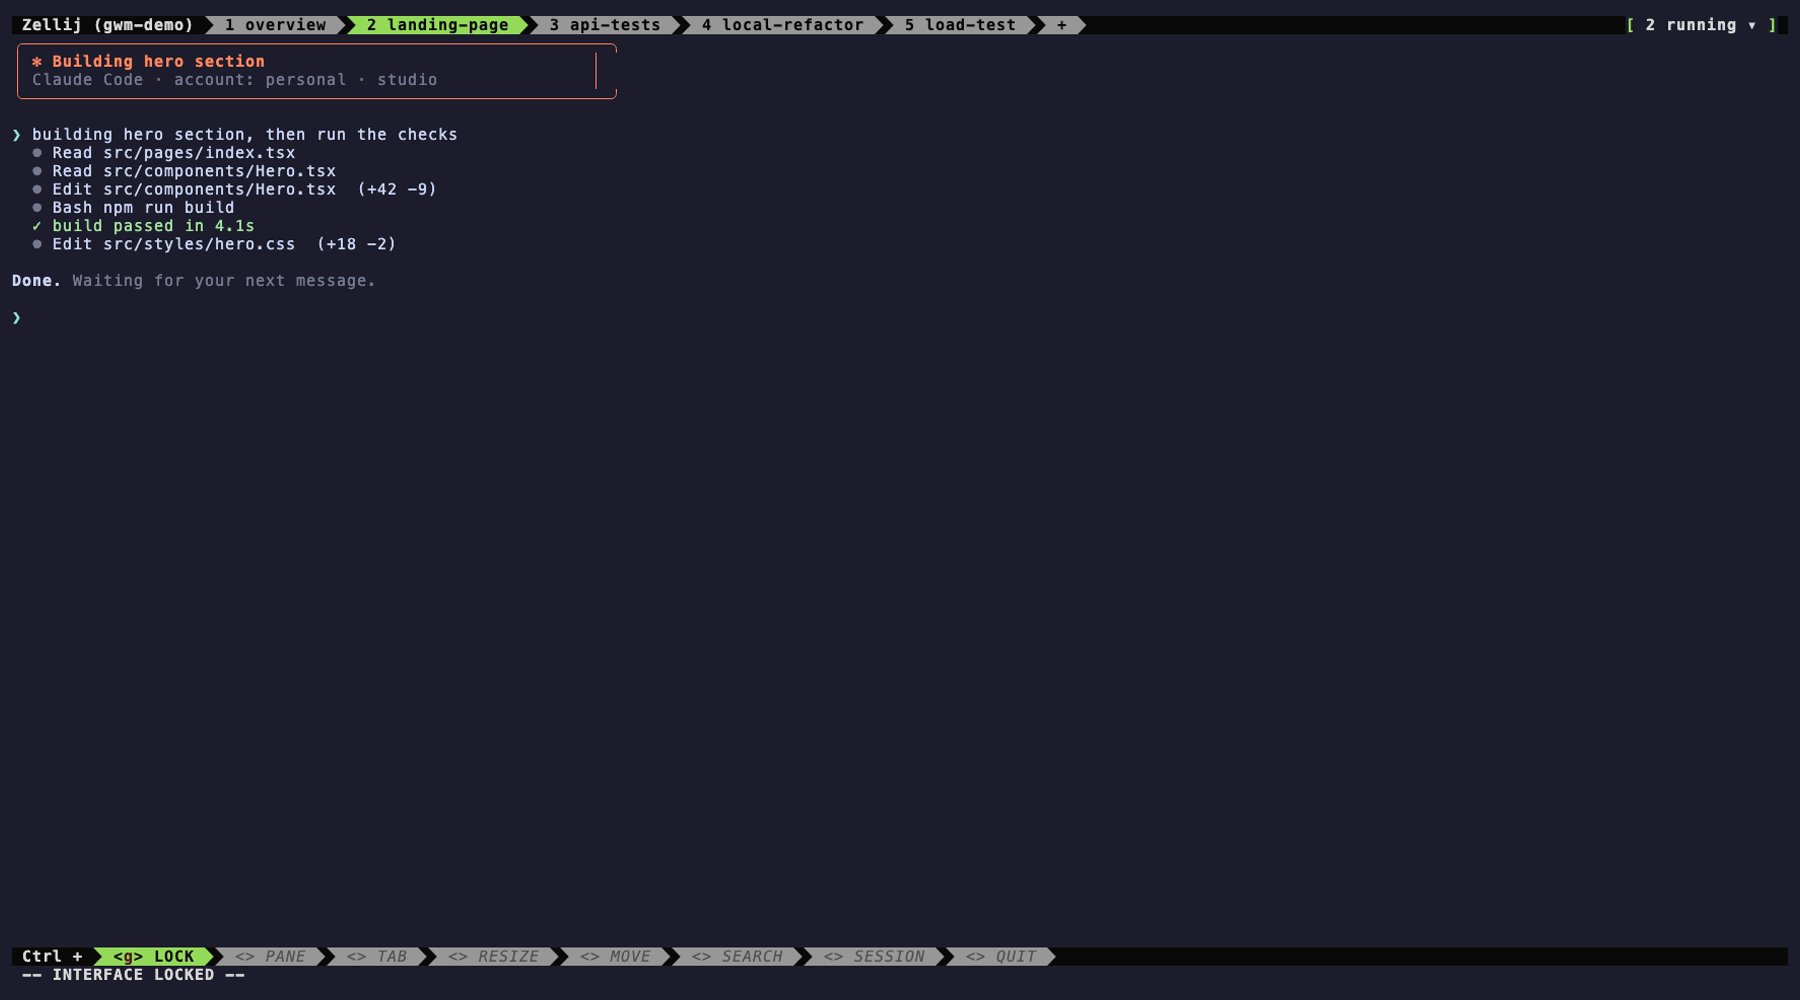
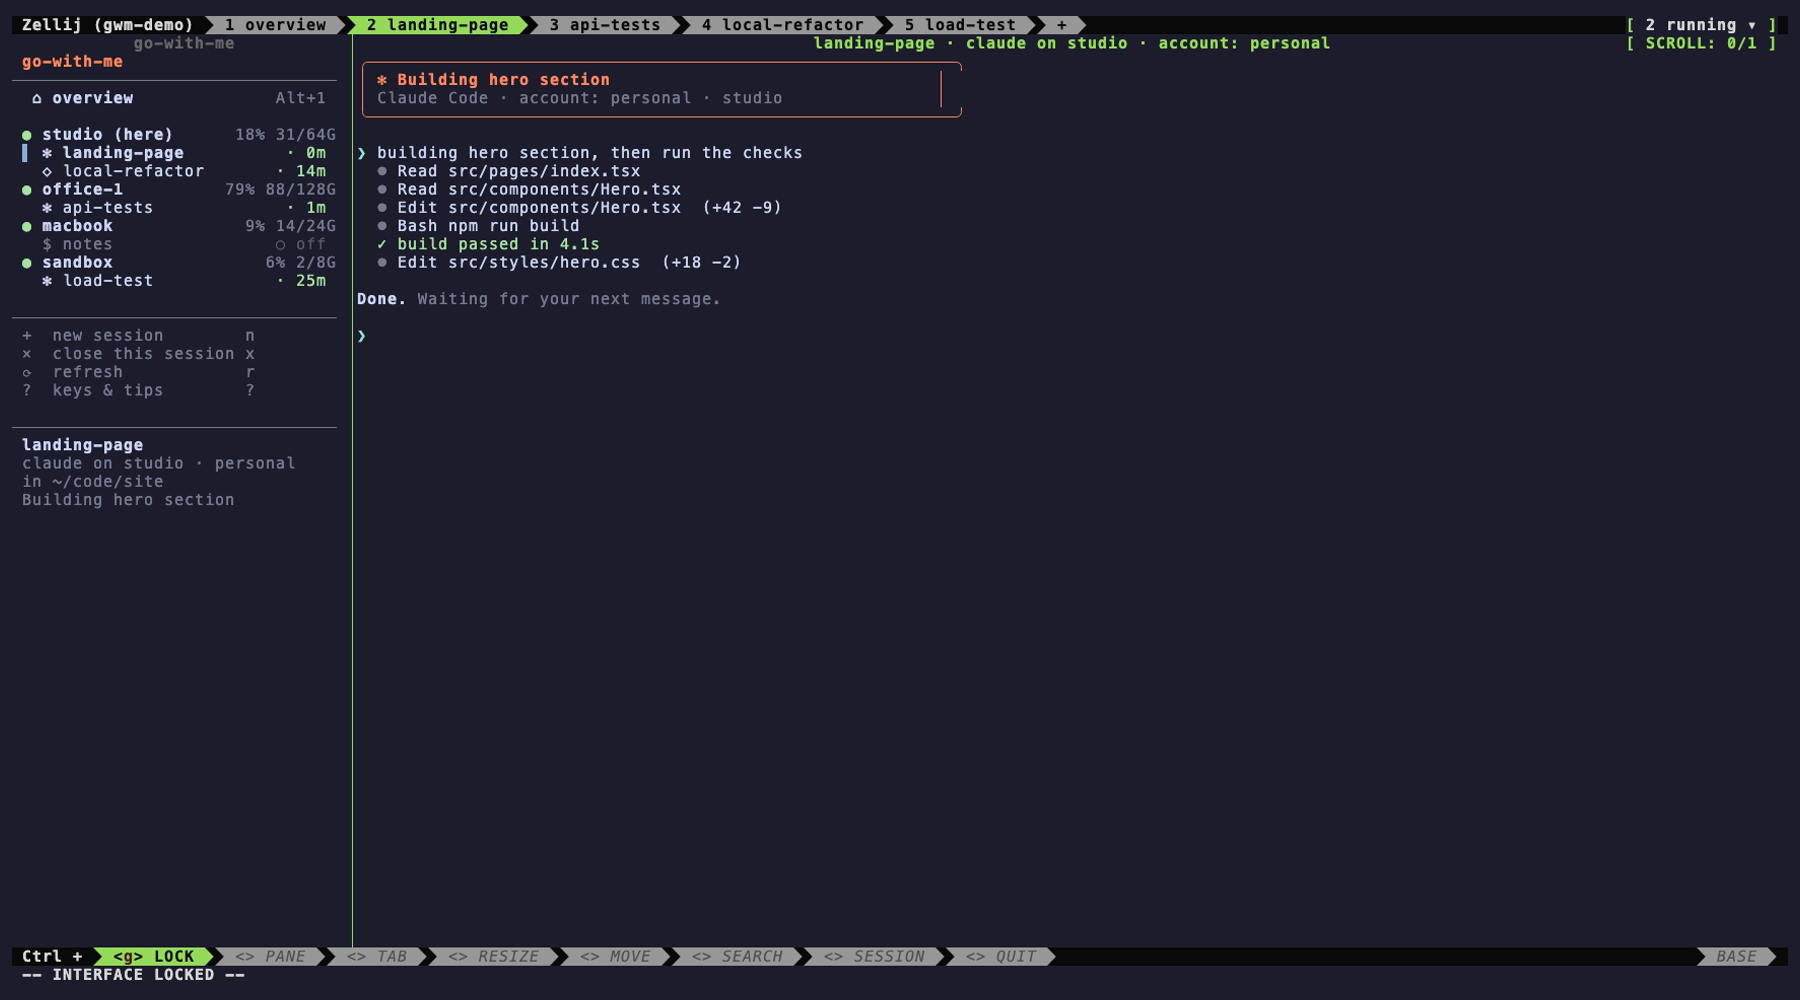
Add sidebar UI, copy-on-select, and Tailscale-aware "used by"
- Every hub tab now has an opencode-style sidebar: machines with live
  CPU/RAM, sessions grouped under each machine with working/idle/off state,
  a marker for the current tab, a details panel, and actions (new, close,
  refresh, help). Click or use arrow keys and Enter; opening a stopped
  session starts it.
- Selecting text with the mouse copies it to the clipboard (pbcopy).
- Board and sidebars share one cached SSH sweep (`gwm _data`).
- "Used by" now detects Tailscale SSH logins and names machines from the
  addresses each one reports, so IPv6 and Tailscale IPs resolve to names.
- README GIF and screenshots re-recorded with the sidebar.

diff --git a/sidebar.py b/sidebar.py
@@ -1,0 +1,289 @@
+#!/usr/bin/env python3
+"""go-with-me sidebar: the left column in every hub tab.
+
+Lists your machines and their sessions with live status. Click (or arrow keys + Enter) to jump to a session;
+opening one that isn't running starts it. n = new session, x = close current session, r = refresh, ? = help.
+Reads state from `gwm _data` (one shared SSH sweep, cached), and drives Zellij with `zellij action`.
+"""
+import curses, json, os, subprocess, sys, threading, time
+
+GWM = sys.argv[1] if len(sys.argv) > 1 else "gwm"
+ENGINE_ICON = {"claude": "✻", "opencode": "◇", "shell": "$"}
+state = {"self": "", "hosts": [], "sessions": [], "probe": {}, "used": {}, "ok": False, "at": 0}
+tabs = {"list": [], "active": None}
+lock = threading.Lock()
+
+
+def run(*args, timeout=30):
+    try:
+        return subprocess.run(args, capture_output=True, text=True, timeout=timeout).stdout
+    except Exception:
+        return ""
+
+
+def load_data():
+    out = run(GWM, "_data", timeout=45)
+    hosts, sessions, used, probe, me = [], [], {}, {}, ""
+    for line in out.splitlines():
+        if line.startswith("#SELF\t"):
+            me = line.split("\t", 1)[1]
+        elif line.startswith("#HOST\t"):
+            p = line.split("\t"); hosts.append({"name": p[1], "target": p[2], "role": p[3] if len(p) > 3 else ""})
+        elif line.startswith("#SESS\t"):
+            p = line.split("\t") + [""] * 6
+            sessions.append({"name": p[1], "host": p[2], "engine": p[3], "account": p[4], "folder": p[5]})
+        elif line.startswith("#USED\t"):
+            p = line.split("\t") + [""]; used[p[1]] = p[2]
+        elif "|" in line:
+            p = line.split("|")
+            h, kind = p[0], p[1] if len(p) > 1 else ""
+            d = probe.setdefault(h, {"up": False, "sessions": {}})
+            if kind == "H":
+                d.update(up=True, cpu=p[2], ram=p[3], models=p[4] if len(p) > 4 else "-", vms=p[5] if len(p) > 5 else "")
+            elif kind == "S" and len(p) >= 6:
+                d["sessions"][p[2]] = {"idle": int(p[3] or 0), "att": int(p[4] or 0), "title": p[5]}
+    with lock:
+        state.update(self=me, hosts=hosts, sessions=sessions, used=used, probe=probe, ok=bool(hosts), at=time.time())
+
+
+def load_tabs():
+    try:
+        data = json.loads(run("zellij", "action", "list-tabs", "-j", timeout=5) or "[]")
+    except Exception:
+        data = []
+    lst = []
+    for t in data:
+        name = str(t.get("name", ""))
+        base = name.split(" ", 1)[1] if name[:1].isdigit() and " " in name else name
+        lst.append({"id": t.get("tab_id", t.get("id")), "pos": t.get("position", 0), "name": base, "active": t.get("active")})
+    with lock:
+        tabs["list"] = lst
+        tabs["active"] = next((t["name"] for t in lst if t["active"]), None)
+
+
+def poller():
+    n = 0
+    while True:
+        load_tabs()
+        if n % 4 == 0:
+            load_data()
+        n += 1
+        time.sleep(1.5)
+
+
+def session_state(s):
+    with lock:
+        hp = state["probe"].get(s["host"], {})
+    if not hp.get("up"):
+        return "offline", 4, ""
+    info = hp["sessions"].get(s["name"])
+    if not info:
+        return "off", 5, ""
+    idle = info["idle"]
+    label = "working" if idle < 8 else (f"{idle // 60}m" if idle < 3600 else f"{idle // 3600}h")
+    return label, (3 if idle < 8 else 2), info["title"].lstrip("✳✻ ").strip()
+
+
+def build_rows():
+    """Each row: (kind, key, text-parts). kind in title/sep/overview/host/session/action/blank."""
+    rows = [("title", None, None), ("sep", None, None), ("overview", "overview", None), ("blank", None, None)]
+    with lock:
+        hosts, sessions = list(state["hosts"]), list(state["sessions"])
+    for h in hosts:
+        rows.append(("host", h["name"], h))
+        for s in sessions:
+            if s["host"] == h["name"]:
+                rows.append(("session", s["name"], s))
+    if not hosts:
+        rows.append(("blank", None, None))
+    rows += [("blank", None, None), ("sep", None, None),
+             ("action", "new", "+  new session        n"),
+             ("action", "close", "×  close this session x"),
+             ("action", "refresh", "⟳  refresh            r"),
+             ("action", "help", "?  keys & tips        ?")]
+    return rows
+
+
+def draw(scr, rows, cursor):
+    scr.erase()
+    H, W = scr.getmaxyx()
+    W = max(W, 10)
+    with lock:
+        active, me = tabs["active"], state["self"]
+        probe, used, ok = state["probe"], state["used"], state["ok"]
+    open_names = {t["name"] for t in tabs["list"]}
+
+    def put(y, x, text, attr=0):
+        if 0 <= y < H and x < W:
+            try:
+                scr.addnstr(y, x, text, max(0, W - x - 1), attr)
+            except curses.error:
+                pass
+
+    for y, (kind, key, data) in enumerate(rows[:H]):
+        sel = (y == cursor)
+        base = curses.A_REVERSE if sel else 0
+        if kind == "title":
+            put(y, 1, "go-with-me", curses.color_pair(1) | curses.A_BOLD)
+            put(y, 12, "" if ok else "loading…", curses.A_DIM)
+        elif kind == "sep":
+            put(y, 0, "─" * (W - 1), curses.A_DIM)
+        elif kind == "overview":
+            a = curses.A_BOLD | (curses.color_pair(6) if active == "overview" else 0)
+            put(y, 1, ("▌" if active == "overview" else " ") + "⌂ overview", a | base)
+            put(y, W - 7, "Alt+1", curses.A_DIM)
+        elif kind == "host":
+            hp = probe.get(key, {})
+            up = hp.get("up")
+            dot, col = ("●", 2) if up else ("○", 4)
+            put(y, 1, dot, curses.color_pair(col) | base)
+            put(y, 3, key + (" (here)" if key == me else ""), curses.A_BOLD | base)
+            if up:
+                put(y + 0, max(3 + len(key) + (8 if key == me else 1), W - 13), f"{hp.get('cpu','')} {hp.get('ram','')}".rjust(12), curses.A_DIM)
+        elif kind == "session":
+            label, col, title = session_state(data)
+            is_active = (active == key)
+            marker = "▌" if is_active else " "
+            icon = ENGINE_ICON.get(data["engine"], "·")
+            put(y, 1, marker, curses.color_pair(6) | curses.A_BOLD)
+            put(y, 3, f"{icon} {key}", (curses.A_BOLD if is_active else 0) | (curses.A_DIM if label in ("off", "offline") and key not in open_names else 0) | base)
+            st = {"off": "○ off", "offline": "offline"}.get(label, ("● " if label == "working" else "· ") + label)
+            put(y, W - len(st) - 2, st, curses.color_pair(col))
+        elif kind == "action":
+            put(y, 1, data, curses.A_DIM | base if not sel else base)
+
+    # footer: details for the highlighted / active session
+    detail = None
+    if 0 <= cursor < len(rows) and rows[cursor][0] in ("session", "host"):
+        detail = rows[cursor]
+    elif active:
+        detail = next((r for r in rows if r[0] == "session" and r[1] == active), None)
+    fy = len(rows) + 1
+    if detail and fy < H - 1:
+        kind, key, data = detail
+        put(fy, 0, "─" * (W - 1), curses.A_DIM)
+        if kind == "session":
+            label, col, title = session_state(data)
+            lines = [f"{key}", f"{data['engine']} on {data['host']}" + (f" · {data['account']}" if data['engine'] == 'claude' else ""),
+                     f"in {data['folder']}"]
+            if title:
+                lines.append(title)
+        else:
+            hp = probe.get(key, {})
+            lines = [key, (data.get("role") or "")[:200]]
+            if hp.get("models") and hp["models"] != "-":
+                lines.append("models: " + hp["models"])
+            if hp.get("vms"):
+                lines.append("VMs: " + hp["vms"])
+            if used.get(key):
+                lines.append("used by: " + used[key])
+        y = fy + 1
+        for i, ln in enumerate(lines):
+            while ln and y < H - 1:
+                put(y, 1, ln[: W - 3], (curses.A_BOLD if i == 0 else curses.A_DIM)); ln = ln[W - 3:]; y += 1
+    scr.refresh()
+
+
+def zellij(*a):
+    run("zellij", "action", *a, timeout=10)
+
+
+def floating(cmd, name):
+    subprocess.Popen(["zellij", "run", "--floating", "--close-on-exit", "--name", name, "--"] + cmd,
+                     stdout=subprocess.DEVNULL, stderr=subprocess.DEVNULL)
+
+
+def activate(row):
+    kind, key, data = row
+    if kind == "overview" or kind == "session":
+        with lock:
+            t = next((t for t in tabs["list"] if t["name"] == key), None)
+        if t and t["id"] is not None:
+            zellij("go-to-tab-by-id", str(t["id"]))
+        elif kind == "session":
+            subprocess.Popen([GWM, "open", key], stdout=subprocess.DEVNULL, stderr=subprocess.DEVNULL)
+        if kind == "session":
+            time.sleep(0.2); zellij("move-focus", "right")
+    elif kind == "action":
+        if key == "new":
+            floating([GWM, "new"], "new session")
+        elif key == "close":
+            with lock:
+                cur = tabs["active"]
+            if cur and cur != "overview":
+                floating(["bash", "-c", f'{GWM} close "{cur}"; sleep 1'], "close session")
+        elif key == "refresh":
+            threading.Thread(target=load_data, daemon=True).start()
+        elif key == "help":
+            floating(["bash", "-c", HELP_CMD], "keys & tips")
+
+
+HELP_CMD = r'''cat <<'EOF'
+ go-with-me — keys & tips
+
+ Sidebar        click a session to jump to it (opening a stopped one starts it)
+                ↑/↓ or j/k then Enter · n new · x close current · r refresh
+ Switch tabs    Alt+1…9  ·  Alt+←/→  (Terminal.app: enable "Use Option as Meta key")
+ Copy text      select with the mouse — it's copied automatically. Paste with Cmd+V.
+ Zellij keys    Ctrl+g first, then follow the bar at the bottom (keys go to Claude until then)
+ Leave          Ctrl+g → o → d   (everything keeps running) — or just close the window
+ From anywhere  gwm status · gwm who · gwm peek <session> · gwm send <session> "text"
+
+ press any key to close
+EOF
+read -rsn1'''
+
+
+def main(scr):
+    curses.curs_set(0)
+    curses.use_default_colors()
+    for i, c in enumerate([209, 2, 3, 1, 8, 110], start=1):  # 1 accent 2 green 3 yellow 4 red 5 grey 6 blue
+        try:
+            curses.init_pair(i, c, -1)
+        except curses.error:
+            curses.init_pair(i, curses.COLOR_WHITE, -1)
+    curses.mousemask(curses.ALL_MOUSE_EVENTS | curses.REPORT_MOUSE_POSITION)
+    curses.mouseinterval(0)
+    scr.timeout(400)
+    threading.Thread(target=poller, daemon=True).start()
+    cursor = -1
+    while True:
+        rows = build_rows()
+        selectable = [i for i, r in enumerate(rows) if r[0] in ("overview", "session", "host", "action")]
+        draw(scr, rows, cursor)
+        ch = scr.getch()
+        if ch == -1:
+            continue
+        if ch == curses.KEY_MOUSE:
+            try:
+                _, mx, my, _, bstate = curses.getmouse()
+            except curses.error:
+                continue
+            if bstate & (curses.BUTTON1_CLICKED | curses.BUTTON1_PRESSED | curses.BUTTON1_RELEASED):
+                if 0 <= my < len(rows) and my in selectable:
+                    cursor = my
+                    if bstate & (curses.BUTTON1_CLICKED | curses.BUTTON1_RELEASED):
+                        activate(rows[my])
+            continue
+        if ch in (curses.KEY_DOWN, ord("j")):
+            nxt = [i for i in selectable if i > cursor]; cursor = nxt[0] if nxt else cursor
+        elif ch in (curses.KEY_UP, ord("k")):
+            prv = [i for i in selectable if i < cursor]; cursor = prv[-1] if prv else cursor
+        elif ch in (10, 13, curses.KEY_ENTER) and 0 <= cursor < len(rows):
+            activate(rows[cursor])
+        elif ch == ord("n"):
+            activate(("action", "new", None))
+        elif ch == ord("x"):
+            activate(("action", "close", None))
+        elif ch == ord("r"):
+            activate(("action", "refresh", None))
+        elif ch == ord("?"):
+            activate(("action", "help", None))
+
+
+if __name__ == "__main__":
+    os.environ.setdefault("ESCDELAY", "25")
+    try:
+        curses.wrapper(main)
+    except KeyboardInterrupt:
+        pass

diff --git a/README.md b/README.md
@@ -21,7 +21,7 @@ git clone https://github.com/Vayras/go-with-me && cd go-with-me && ./go-with-me 
 <td width="50%"><img src="docs/session-tab.png" alt="A session tab"></td>
 </tr>
 <tr>
-<td><b>Overview tab.</b> Every machine (CPU, RAM, loaded models, VMs, <i>which other devices are using it</i>) and every session (working / idle / current task). Below it, a <b>coordinator</b> Claude you can ask "what's going on?" or "tell the VM to rerun the load test".</td>
+<td><b>Overview tab.</b> A <b>sidebar</b> on the left of every tab lists your machines and sessions with live status; click one to jump there, or use + new / × close. Every machine (CPU, RAM, loaded models, VMs, <i>which other devices are using it</i>) and every session (working / idle / current task). Below it, a <b>coordinator</b> Claude you can ask "what's going on?" or "tell the VM to rerun the load test".</td>
 <td><b>One tab per session.</b> Each session runs on its own machine and <b>keeps running</b> when you close your laptop. Tabs are numbered by position and renumber themselves; <b>Alt+1…9</b> jumps straight to one.</td>
 </tr>
 </table>
@@ -69,9 +69,10 @@ gwm             # open the hub
 | Sign a Claude account in on a machine | `gwm login work --on studio` |
 | Linux VMs | `gwm vm create <name> --on <machine> [--cpus 6 --memory 16]` · `gwm vm list` |
 | Local models | `gwm models --on studio` · `gwm pull <model>` · `gwm opencode-setup --on studio` |
+| Copy text | Select it with the mouse; it's copied automatically. Paste with Cmd+V |
 | Leave the hub (everything keeps running) | **Ctrl+g → o → d**, or close the window |
 
-**In the hub:** click tabs and panes with the mouse. Keys go straight to Claude or opencode until you press **Ctrl+g**; the bottom bar then shows what each key does. **Alt+1…9** and **Alt+←/→** switch tabs at any time (Terminal.app: enable *Use Option as Meta key*).
+**In the hub:** the **sidebar** (left) lists every machine and session: click to jump, **n** new, **x** close, **?** help. Click tabs and panes with the mouse; select text to copy. Keys go straight to Claude or opencode until you press **Ctrl+g**; the bottom bar then shows what each key does. **Alt+1…9** and **Alt+←/→** switch tabs at any time (Terminal.app: enable *Use Option as Meta key*).
 
 ## Config
 
